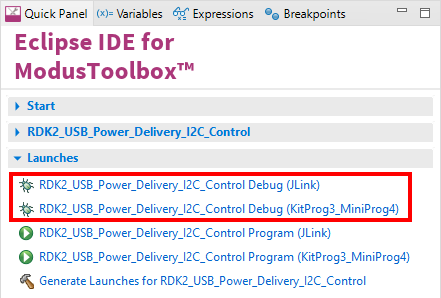
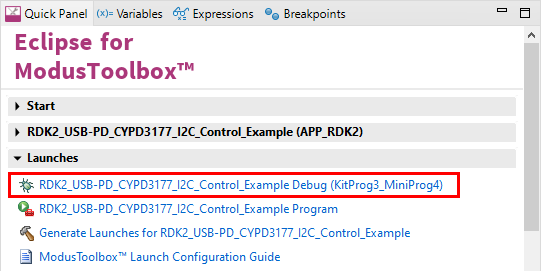
mtb 2025.04 updates.

Changed region(s): [[0.0, 0.0, 1.0, 0.8856], [0.0295, 0.9151, 0.8254, 0.9742]]

diff --git a/README.md b/README.md
@@ -8,7 +8,7 @@ This example demonstrates how to access and control the CYPD3177 power delivery 
 
 ## Requirements
 
-- [ModusToolbox® software](https://www.infineon.com/cms/en/design-support/tools/sdk/modustoolbox-software/) **v3.x** [built with **v3.0**]
+- [ModusToolbox® software](https://www.infineon.com/cms/en/design-support/tools/sdk/modustoolbox-software/) **v2025.4.0** [built with **v3.0**]
 
 ## Supported toolchains (make variable 'TOOLCHAIN')
 
@@ -141,7 +141,7 @@ The progress can be seen via KitProg3 UART:
 
 ### Debugging
 
-If you successfully have imported the example, the debug configurations are already prepared to use with a the KitProg3, MiniProg4, or J-link. Open the ModusToolbox perspective and find the Quick Panel. Click on the desired debug launch configuration and wait until the programming completes and the debugging starts.
+If you have successfully imported the example, the debug configurations are already prepared to use with the KitProg3, MiniProg4. Open the ModusToolbox perspective and find the Quick Panel. Click on the desired debug launch configuration and wait until the programming completes and the debugging starts.
 
 <img src="images/usb_pd_debug.png" style="zoom:100%;" />
 
